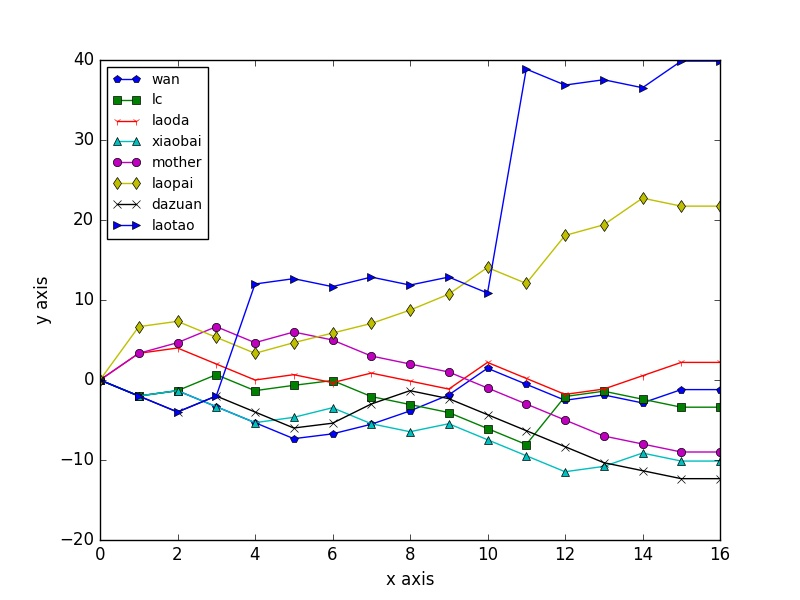
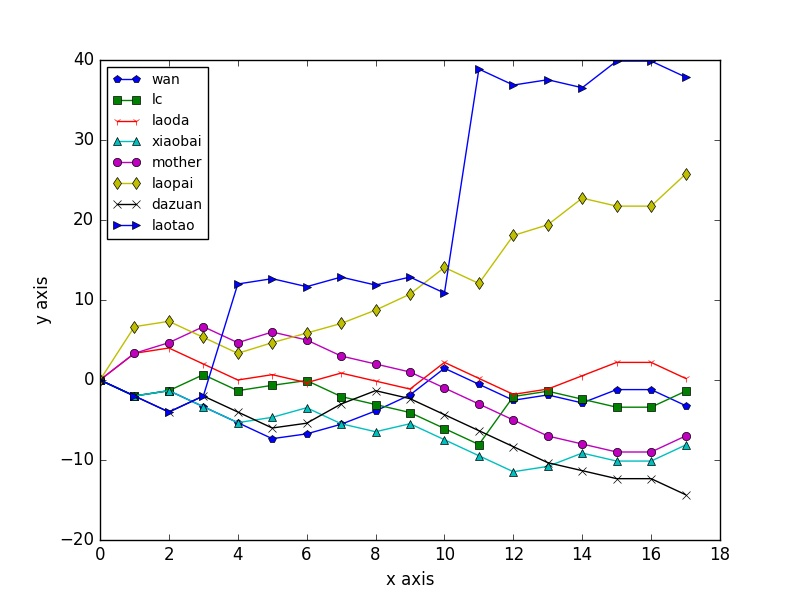
update

diff --git a/README.md b/README.md
@@ -1,23 +1,43 @@
 # E cup guess competition report
 ## real-time ranking
-2016-06-16 23:08:20
+2016-06-17 02:47:21
 
 |rank|name|score|
 |:---:|:---:|:---:|
-|1|laotao|39.87|
-|2|laopai|21.73|
-|3|laoda|2.20|
-|4|wan|-1.20|
-|5|lc|-3.40|
-|6|mother|-9.00|
-|7|xiaobai|-10.13|
-|8|dazuan|-12.33|
+|1|laotao|37.87|
+|2|laopai|25.73|
+|3|laoda|0.20|
+|4|lc|-1.40|
+|5|wan|-3.20|
+|6|mother|-7.00|
+|7|xiaobai|-8.13|
+|8|dazuan|-14.33|
 
 ## Pond
-591.27
+589.27
 
 ## History
 ![image](https://github.com/Anserw/E_Cup/blob/master/plot.jpg)
+### 2016061703 Ukraine 0 : 2 NorthernIreland
+- handicap: -1
+- scorer: laotao
+- owners:
+ - Ukraine: dazuan
+ - NorthernIreland: laopai
+
+
+|name|guess|score change|
+|:---:|:---:|:---:|
+|wan|Ukraine|-2.00|
+|lc|NorthernIreland|2.00|
+|laoda|Ukraine|-2.00|
+|xiaobai|NorthernIreland|2.00|
+|mother|NorthernIreland|2.00|
+|laopai|NorthernIreland|4.00|
+|dazuan|Ukraine|-2.00|
+|laotao|Ukraine|-2.00|
+|Pond|..|-2.00|
+
 ### 2016061621 England 2 : 1 Welsh
 - handicap: -1
 - scorer: laotao
